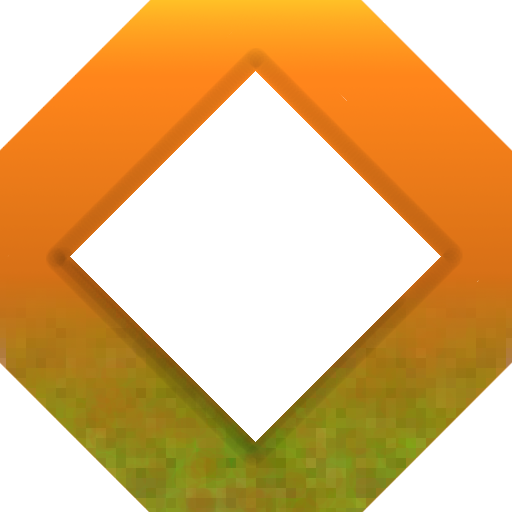
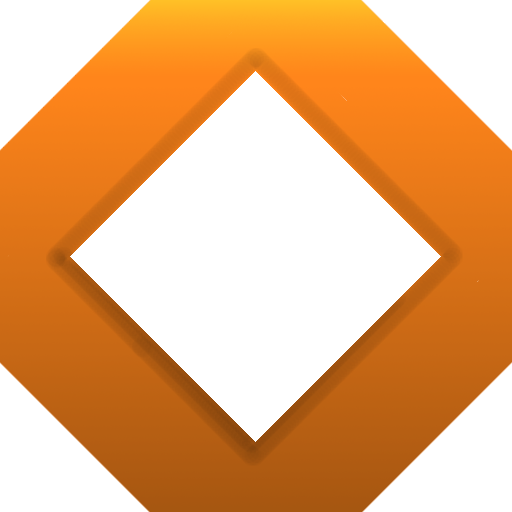
[update] switched wall texture [update] enabled all post-processing effects

Changed region(s): [[0.0, 0.625, 1.0, 1.0]]

diff --git a/uracer-desktop/src/com/bitfire/uracer/game/logic/post/PostProcessing.java b/uracer-desktop/src/com/bitfire/uracer/game/logic/post/PostProcessing.java
@@ -7,6 +7,15 @@ import com.badlogic.gdx.graphics.Texture.TextureWrap;
 import com.badlogic.gdx.utils.LongMap;
 import com.bitfire.postprocessing.PostProcessor;
 import com.bitfire.postprocessing.PostProcessorEffect;
+import com.bitfire.postprocessing.effects.Bloom;
+import com.bitfire.postprocessing.effects.CrtMonitor;
+import com.bitfire.postprocessing.effects.Curvature;
+import com.bitfire.postprocessing.effects.Vignette;
+import com.bitfire.postprocessing.effects.Zoomer;
+import com.bitfire.postprocessing.filters.RadialBlur;
+import com.bitfire.uracer.configuration.Config;
+import com.bitfire.uracer.configuration.UserPreferences;
+import com.bitfire.uracer.configuration.UserPreferences.Preference;
 import com.bitfire.uracer.game.logic.post.ssao.Ssao;
 import com.bitfire.uracer.game.player.PlayerCar;
 import com.bitfire.utils.Hash;
@@ -56,29 +65,29 @@ public final class PostProcessing {
 		// ssao
 		addEffect(Effects.Ssao.name, new Ssao());
 
-// if (UserPreferences.bool(Preference.ZoomRadialBlur)) {
-// RadialBlur.Quality rbq = RadialBlur.Quality.valueOf(UserPreferences.string(Preference.ZoomRadialBlurQuality));
-// Zoomer z = (UserPreferences.bool(Preference.ZoomRadialBlur) ? new Zoomer(rbq) : new Zoomer());
-// z.setBlurStrength(0);
-// z.setZoom(1);
-// addEffect(Effects.Zoomer.name, z);
-// }
-//
-// if (UserPreferences.bool(Preference.Bloom)) {
-// addEffect(Effects.Bloom.name, new Bloom(Config.PostProcessing.BloomFboWidth, Config.PostProcessing.BloomFboHeight));
-// }
-//
-// if (UserPreferences.bool(Preference.Vignetting)) {
-// // if there is no bloom, let's control the final saturation via
-// // the vignette filter
-// addEffect(Effects.Vignette.name, new Vignette(!UserPreferences.bool(Preference.Bloom)));
-// }
-//
-// if (UserPreferences.bool(Preference.CrtScreen)) {
-// addEffect(Effects.Crt.name, new CrtMonitor(UserPreferences.bool(Preference.Curvature), false));
-// } else if (UserPreferences.bool(Preference.Curvature)) {
-// addEffect(Effects.Curvature.name, new Curvature());
-// }
+		if (UserPreferences.bool(Preference.ZoomRadialBlur)) {
+			RadialBlur.Quality rbq = RadialBlur.Quality.valueOf(UserPreferences.string(Preference.ZoomRadialBlurQuality));
+			Zoomer z = (UserPreferences.bool(Preference.ZoomRadialBlur) ? new Zoomer(rbq) : new Zoomer());
+			z.setBlurStrength(0);
+			z.setZoom(1);
+			addEffect(Effects.Zoomer.name, z);
+		}
+
+		if (UserPreferences.bool(Preference.Bloom)) {
+			addEffect(Effects.Bloom.name, new Bloom(Config.PostProcessing.BloomFboWidth, Config.PostProcessing.BloomFboHeight));
+		}
+
+		if (UserPreferences.bool(Preference.Vignetting)) {
+			// if there is no bloom, let's control the final saturation via
+			// the vignette filter
+			addEffect(Effects.Vignette.name, new Vignette(!UserPreferences.bool(Preference.Bloom)));
+		}
+
+		if (UserPreferences.bool(Preference.CrtScreen)) {
+			addEffect(Effects.Crt.name, new CrtMonitor(UserPreferences.bool(Preference.Curvature), false));
+		} else if (UserPreferences.bool(Preference.Curvature)) {
+			addEffect(Effects.Curvature.name, new Curvature());
+		}
 
 		Gdx.app.log("PostProcessing", "Post-processing enabled and configured");
 	}

diff --git a/uracer-desktop/src/com/bitfire/uracer/game/logic/post/ssao/Ssao.java b/uracer-desktop/src/com/bitfire/uracer/game/logic/post/ssao/Ssao.java
@@ -33,6 +33,7 @@ import com.badlogic.gdx.math.Matrix3;
 import com.badlogic.gdx.math.Matrix4;
 import com.bitfire.postprocessing.PostProcessorEffect;
 import com.bitfire.postprocessing.filters.Blur;
+import com.bitfire.postprocessing.filters.Blur.BlurType;
 import com.bitfire.postprocessing.utils.FullscreenQuad;
 import com.bitfire.postprocessing.utils.PingPongBuffer;
 import com.bitfire.uracer.configuration.Config;
@@ -150,7 +151,7 @@ public final class Ssao extends PostProcessorEffect {
 				shSsao.setUniformf("viewport", occlusionMap.width, occlusionMap.height);
 				shSsao.setUniformf("near", cam.near);
 				shSsao.setUniformf("far", cam.far);
-				shSsao.setUniformf("radius", 0.1f);
+				shSsao.setUniformf("radius", 0.08f);
 				shSsao.setUniformf("epsilon", 0.001f);
 				shSsao.setUniformf("full_occlusion_treshold", 0.1f);
 				shSsao.setUniformf("no_occlusion_treshold", 0.3f);
@@ -158,16 +159,16 @@ public final class Ssao extends PostProcessorEffect {
 				shSsao.setUniformf("power", 2f);
 
 				shSsao.setUniformi("sample_count", 16);
-				shSsao.setUniformf("pattern_size", 4);
+				shSsao.setUniformf("pattern_size", 2);
 
 				quad.render(shSsao);
 			}
 			shSsao.end();
 
 			// blur pass
-// blur.setType(BlurType.Gaussian3x3);
-// blur.setPasses(1);
-// blur.render(occlusionMap);
+			blur.setType(BlurType.Gaussian3x3);
+			blur.setPasses(1);
+			blur.render(occlusionMap);
 		}
 		occlusionMap.end();
 
@@ -178,7 +179,7 @@ public final class Ssao extends PostProcessorEffect {
 			occlusionMap.getResultTexture().bind(1);
 			// normalDepthMap.bind(2);
 
-			shMix.setUniformi("scene", 1);
+			shMix.setUniformi("scene", 0);
 			shMix.setUniformi("occlusion_map", 1);
 
 			quad.render(shMix);

diff --git a/uracer-desktop/src/com/bitfire/uracer/configuration/Config.java b/uracer-desktop/src/com/bitfire/uracer/configuration/Config.java
@@ -20,7 +20,7 @@ public final class Config {
 		public static void asDefault () {
 			EnableMipMapping = true;
 			SubframeInterpolation = true;
-			CameraInterpolationMode = InterpolationMode.OffNoBounds;
+			CameraInterpolationMode = InterpolationMode.Linear;
 		}
 
 		private Graphics () {
@@ -92,8 +92,8 @@ public final class Config {
 			RenderDebugDrawsInTransitions = true;
 			RenderTrackSectors = false;
 
-			TraverseWalls = true;
-			ApplyCarFrictionFromMap = false;
+			TraverseWalls = false;
+			ApplyCarFrictionFromMap = true;
 			FrustumCulling = true;
 			InfiniteDilationTime = true;
 		}

diff --git a/uracer-desktop/src/com/bitfire/uracer/game/rendering/GameWorldRenderer.java b/uracer-desktop/src/com/bitfire/uracer/game/rendering/GameWorldRenderer.java
@@ -400,7 +400,7 @@ public final class GameWorldRenderer {
 		Gdx.gl.glDepthMask(true);
 
 		shNormalDepth.begin();
-		shNormalDepth.setUniformf("inv_depth_scale", 1f / 20f);
+		shNormalDepth.setUniformf("inv_depth_scale", 1f / 70f);
 		shNormalDepth.end();
 
 		normalDepthMap.begin();
